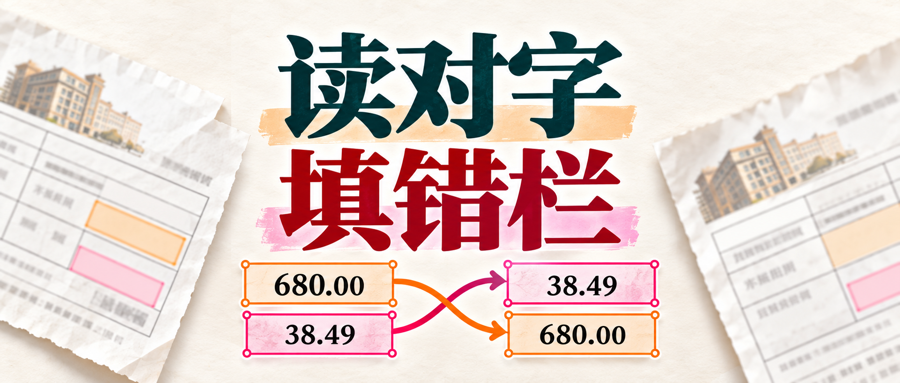
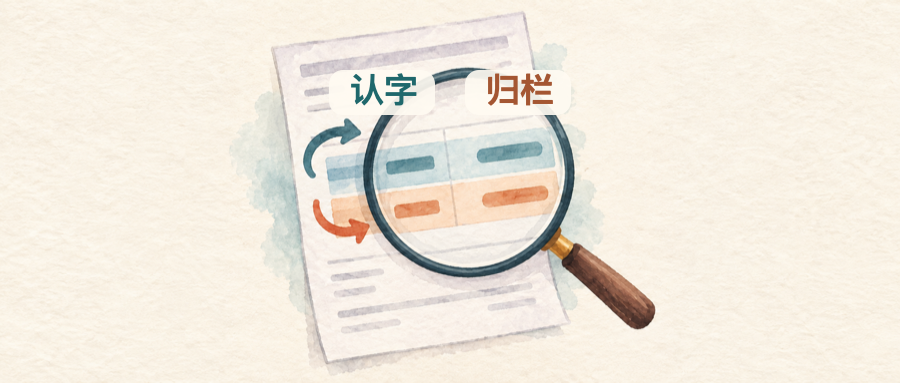
Refine multimodal WeChat covers and explanatory figures

diff --git a/scripts/render-multimodal-mobile-figures.py b/scripts/render-multimodal-mobile-figures.py
@@ -67,16 +67,57 @@ def save(im, name):
     im.save(ASSETS / name, optimize=True)
 
 
+def h_arrow(d, x1, y, x2, fill=ORANGE):
+    d.line((x1, y, x2-16, y), fill=fill, width=7)
+    d.polygon(((x2, y), (x2-24, y-14), (x2-24, y+14)), fill=fill)
+
+
+def box(d, xy, fill="white", outline=LINE, radius=18):
+    d.rounded_rectangle(xy, radius=radius, fill=fill, outline=outline, width=3)
+
+
+def invoice(d, x, y, w, h, readable=True):
+    box(d, (x, y, x+w, y+h), "#fffdf9", "#869895", 12)
+    d.line((x+18, y+66, x+w-18, y+66), fill=LINE, width=3)
+    text(d, x+24, y+17, "发票" if readable else "单据", 35, INK)
+    for i in range(3):
+        ry = y+98+i*68
+        d.line((x+24, ry+47, x+w-24, ry+47), fill=LINE, width=2)
+        if readable:
+            label, value = (("日期", "9/3"), ("含税金额", "680.00"), ("税额", "38.49"))[i]
+            text(d, x+27, ry, label, 33, MUTED)
+            text(d, x+w-222, ry, value, 35, INK)
+        else:
+            d.rounded_rectangle((x+26, ry+8, x+w-35, ry+28), radius=7, fill=LINE)
+
+
 def encoding():
     im, d = base("不同输入，先各自编码", "输入编码 · 主文")
-    for y, name, route, result, fill in (
-        (260, "发票照片", "视觉编码器", "图像特征", TEAL_BG),
-        (574, "语音录音", "音频编码器", "声音特征", PLUM_BG),
-        (888, "文字提问", "文本编码", "文字表示", ORANGE_BG),
-    ):
-        card(d, y, 235, name, (f"{route}  →  {result}",), fill)
-    arrow(d, 1134, 1192, "按任务对齐或融合")
-    ribbon(d, 1210, ("这张发票只使用图片和文字两路；", "并非每个模型都支持全部输入。"), TEAL_BG)
+    lanes = (
+        (275, "发票照片", "视觉编码器", "图像特征", TEAL_BG, TEAL),
+        (570, "语音录音", "音频编码器", "声音特征", PLUM_BG, PLUM),
+        (865, "文字提问", "文本编码", "文字表示", ORANGE_BG, ORANGE),
+    )
+    for y, source, encoder, feature, fill, accent in lanes:
+        box(d, (75, y, 270, y+200), "white")
+        box(d, (365, y+32, 645, y+164), fill, accent)
+        box(d, (735, y+32, 925, y+164), "white", accent)
+        if source == "发票照片":
+            d.rectangle((120, y+40, 225, y+130), outline=accent, width=4)
+            for i in range(3):
+                d.line((135, y+62+i*23, 207, y+62+i*23), fill=accent, width=4)
+        elif source == "语音录音":
+            for i, ht in enumerate((28, 55, 91, 48, 76, 32)):
+                xx = 115+i*23
+                d.line((xx, y+106-ht//2, xx, y+106+ht//2), fill=accent, width=6)
+        else:
+            text(d, 108, y+57, "金额？", 42, accent)
+        text(d, 103, y+157, source, 33, INK)
+        text(d, 402, y+73, encoder, 39)
+        text(d, 764, y+73, feature, 36)
+        h_arrow(d, 279, y+100, 354, accent)
+        h_arrow(d, 654, y+100, 725, accent)
+    ribbon(d, 1190, ("本例只用图片和文字两路；", "可用模态取决于具体模型。"), TEAL_BG)
     save(im, "multimodal-encoding.png")
 
 
@@ -109,69 +150,147 @@ def document():
     text(d, 140, 776, "税额             38.49", 45)
     text(d, 108, 899, "小字：需放大查看原文", 42, PLUM)
     text(d, 108, 981, "印章：另一区域，不能替代金额", 39, PLUM)
-    ribbon(d, 1210, ("只读出 680.00 和 38.49，", "还不能确定各自属于哪个字段。"))
+    ribbon(d, 1210, ("数值要连同旁边的标签核对；", "9/3 没有年份，不能补猜。"))
     save(im, "multimodal-document.png")
 
 
 def field_trace():
     im, d = base("每个字段都能指回原图", "字段溯源 · 主副文共用")
-    items = (
-        (258, "A · 含税金额", "原图标签 + 680.00", "草稿：含税金额 680.00", TEAL_BG),
-        (584, "B · 税额", "原图标签 + 38.49", "草稿：税额 38.49", PLUM_BG),
-        (910, "C · 开票日期", "原图只写 9/3", "草稿：9/3；年份未知", ORANGE_BG),
+    text(d, 90, 265, "原图区域", 37, TEAL)
+    text(d, 386, 265, "识别读数", 37, PLUM)
+    text(d, 690, 265, "草稿字段", 37, ORANGE)
+    rows = (
+        (333, "A", "含税金额", "680.00", "含税金额", "680.00", TEAL_BG),
+        (642, "B", "税额", "38.49", "税额", "38.49", PLUM_BG),
+        (951, "C", "日期", "9/3", "日期", "年份未知", ORANGE_BG),
     )
-    for y, heading, source, target, color in items:
-        card(d, y, 274, heading, (source, "↓", target), color)
-    ribbon(d, 1254, ("A / B / C 是示意区域，", "不是实测坐标；草稿仍需复核。"), TEAL_BG)
+    for y, region, source, value, target, status, fill in rows:
+        box(d, (75, y, 326, y+218), "white")
+        box(d, (378, y+27, 600, y+191), fill)
+        box(d, (660, y+5, 923, y+213), "white")
+        d.ellipse((95, y+20, 151, y+76), fill=ORANGE)
+        text(d, 123, y+48, region, 35, "white", "mm")
+        text(d, 106, y+107, source, 35)
+        text(d, 106, y+155, value, 39, TEAL)
+        text(d, 403, y+89, value, 42, PLUM)
+        text(d, 688, y+78, target, 35)
+        text(d, 688, y+135, status, 38, ORANGE if region == "C" else TEAL)
+        h_arrow(d, 332, y+109, 370)
+        h_arrow(d, 607, y+109, 650)
+    ribbon(d, 1281, ("A / B / C 仅为示意区域；", "每个草稿字段都要能回溯。"), TEAL_BG)
     save(im, "multimodal-field-trace.png")
 
 
 def validation():
     im, d = base("能读到，不等于能通过", "字段验证 · 主文")
-    card(d, 270, 397, "金额与税额", ("680.00 / 38.49 可以解析", "核对各自标签与原图区域", "→ 保留读数，等待复核"), TEAL_BG)
-    card(d, 720, 397, "开票日期", ("原图只有 9/3", "缺少年份，不能补成完整日期", "→ 保留 9/3；年份未知"), ORANGE_BG)
-    ribbon(d, 1196, ("能否报销，还要依据制度和记录；", "图片本身不能证明审批通过。"), PLUM_BG)
+    invoice(d, 275, 265, 450, 322)
+    text(d, 97, 635, "同一张原图，分两条校验路径", 41, MUTED)
+    d.line((500, 695, 500, 746), fill=ORANGE, width=7)
+    d.line((265, 745, 735, 745), fill=ORANGE, width=7)
+    d.line((265, 745, 265, 787), fill=ORANGE, width=7)
+    d.line((735, 745, 735, 787), fill=ORANGE, width=7)
+    box(d, (72, 800, 473, 1129), TEAL_BG, TEAL)
+    box(d, (527, 800, 928, 1129), ORANGE_BG, ORANGE)
+    text(d, 106, 846, "金额 / 税额", 42, TEAL)
+    text(d, 106, 920, "读数可解析", 37)
+    text(d, 106, 974, "标签与区域须复核", 37)
+    text(d, 561, 846, "日期 9/3", 42, ORANGE)
+    text(d, 561, 920, "年份缺失", 37)
+    text(d, 561, 974, "保持未知，不补猜", 37)
+    ribbon(d, 1211, ("图像读数不是报销结论；", "是否通过还要核对制度与记录。"), PLUM_BG)
     save(im, "multimodal-validation.png")
 
 
 def alignment():
     im, d = base("缩掉的小字，连接层救不回", "视觉连接 · 面试")
-    ribbon(d, 258, ("同一张发票：680.00、38.49", "以及旁边的字段标签。"), "white")
-    card(d, 428, 329, "路径 A：整页缩得过小", ("小字或小数点可能消失", "视觉编码器得到残缺特征", "连接层不能补回丢失像素"), ORANGE_BG)
-    card(d, 807, 329, "路径 B：金额栏局部放大", ("同时保留数字与字段标签", "视觉编码器取得更清晰特征", "接入语言模型后仍需复核"), TEAL_BG)
-    ribbon(d, 1208, ("连接层映射已有特征；", "原图信息损失须在输入端处理。"), PLUM_BG)
+    text(d, 100, 257, "A  整页缩小", 41, ORANGE)
+    text(d, 563, 257, "B  金额栏放大", 41, TEAL)
+    box(d, (70, 325, 456, 710), ORANGE_BG, ORANGE)
+    box(d, (544, 325, 930, 710), TEAL_BG, TEAL)
+    invoice(d, 138, 359, 250, 288, readable=False)
+    text(d, 124, 663, "标签、小数点可能丢失", 30, ORANGE)
+    box(d, (572, 396, 903, 626), "#fffdf9", TEAL)
+    text(d, 599, 425, "含税金额  680.00", 36)
+    d.line((593, 499, 883, 499), fill=LINE, width=3)
+    text(d, 599, 529, "税额      38.49", 36)
+    text(d, 594, 656, "标签和读数一起保留", 30, TEAL)
+    box(d, (90, 809, 431, 1000), "white")
+    box(d, (569, 809, 910, 1000), "white")
+    text(d, 118, 855, "视觉编码器", 38)
+    text(d, 118, 921, "输入已残缺", 36, ORANGE)
+    text(d, 599, 855, "视觉编码器", 38)
+    text(d, 599, 921, "可见两组字段", 36, TEAL)
+    arrow(d, 722, 798, x=260)
+    arrow(d, 722, 798, x=740)
+    d.line((260, 1007, 260, 1080), fill=ORANGE, width=6)
+    d.line((740, 1007, 740, 1080), fill=TEAL, width=6)
+    box(d, (185, 1090, 815, 1220), PLUM_BG, PLUM)
+    text(d, 256, 1132, "连接层只能映射已有特征", 41, PLUM)
+    ribbon(d, 1281, ("丢失的小字不能在连接层补回。",), "white")
     save(im, "multimodal-alignment.png")
 
 
 def ocr_vlm():
     im, d = base("认出字符 ≠ 填对字段", "OCR 与 VLM · 面试")
-    ribbon(d, 257, ("同一张发票：680.00、38.49、9/3" ,), "white")
-    card(d, 390, 242, "OCR（光学字符识别）", ("读出字符和文字框位置", "检查：数字是否读对？"), PLUM_BG)
-    card(d, 680, 242, "VLM（视觉语言模型）", ("给出字段关系候选", "检查：金额和税额是否填反？"), TEAL_BG)
-    arrow(d, 934, 991)
-    ribbon(d, 1010, ("合并证据，回到原图复核；", "两者一致也不能补出年份。"), ORANGE_BG)
+    invoice(d, 275, 260, 450, 322)
+    d.line((500, 590, 500, 650), fill=ORANGE, width=7)
+    d.line((265, 650, 735, 650), fill=ORANGE, width=7)
+    d.line((265, 650, 265, 700), fill=ORANGE, width=7)
+    d.line((735, 650, 735, 700), fill=ORANGE, width=7)
+    box(d, (70, 710, 470, 1092), PLUM_BG, PLUM)
+    box(d, (530, 710, 930, 1092), TEAL_BG, TEAL)
+    text(d, 98, 746, "OCR：读字与位置", 39, PLUM)
+    for i, value in enumerate(("9/3", "680.00", "38.49")):
+        y = 819+i*77
+        box(d, (108, y, 406, y+57), "white", PLUM, 8)
+        text(d, 136, y+6, value, 37)
+    text(d, 556, 746, "VLM：提出归属", 39, TEAL)
+    text(d, 557, 828, "含税金额 ← 680.00", 34)
+    text(d, 557, 905, "税额 ← 38.49", 34)
+    text(d, 557, 982, "日期 ← 9/3", 34)
+    ribbon(d, 1178, ("最终按原图标签、位置复核；", "两路一致也不能补出年份。"), ORANGE_BG)
     save(im, "multimodal-ocr-vlm.png")
 
 
 def diagnosis():
     im, d = base("错在看不清，还是配不对", "错误诊断 · 面试")
-    for y, title, lines, fill in (
-        (258, "缩图过度", ("小字或小数点丢失", "处理：放大原图金额栏"), PLUM_BG),
-        (609, "标签与数值拆开", ("680.00 失去“含税金额”标签", "处理：连同行列与坐标复核"), TEAL_BG),
-        (960, "日期缺项", ("9/3 没写年份", "处理：年份标未知，不补猜"), ORANGE_BG),
-    ):
-        card(d, y, 288, title, lines, fill)
+    rows = (
+        (273, "看不清", "680.0?", ("放大金额栏",), PLUM_BG, PLUM),
+        (635, "配不对", "金额错填税额", ("核对标签", "与行列"), TEAL_BG, TEAL),
+        (997, "原图缺项", "9/3  +  ?年", ("年份标未知",), ORANGE_BG, ORANGE),
+    )
+    text(d, 91, 238, "错误现象", 35, MUTED)
+    text(d, 636, 238, "定位后的动作", 35, MUTED)
+    for y, title, sample, actions, fill, accent in rows:
+        box(d, (70, y, 530, y+280), fill, accent)
+        box(d, (620, y+31, 930, y+249), "white", accent)
+        text(d, 102, y+39, title, 42, accent)
+        text(d, 102, y+131, sample, 47)
+        h_arrow(d, 544, y+140, 606, accent)
+        for i, action in enumerate(actions):
+            text(d, 652, y+98+i*51, action, 36)
     save(im, "multimodal-document-diagnosis.png")
 
 
 def evaluation():
     im, d = base("把三类错误分开评", "分层评测 · 面试")
-    for y, title, lines, fill in (
-        (258, "字符读错", ("看：金额字符准确率", "查：原图质量与识别区域"), PLUM_BG),
-        (609, "字段填反", ("看：字段归属与区域定位", "查：标签、行列与坐标"), TEAL_BG),
-        (960, "无据补年份", ("看：缺项保留是否正确", "查：9/3 是否仍为年份未知"), ORANGE_BG),
-    ):
-        card(d, y, 288, title, lines, fill)
+    box(d, (91, 258, 909, 379), "white")
+    text(d, 131, 286, "同一批样本，拆成三项统计", 42, INK)
+    d.line((126, 390, 126, 1100), fill=LINE, width=6)
+    rows = (
+        (454, "字符读错", "680.0?", "字符准确率", PLUM_BG, PLUM),
+        (728, "字段填反", "金额填入税额栏", "字段归属率", TEAL_BG, TEAL),
+        (1002, "无据补年", "9/3 被补成年份", "缺项保留率", ORANGE_BG, ORANGE),
+    )
+    for y, title, sample, metric, fill, accent in rows:
+        d.ellipse((105, y+80, 147, y+122), fill=accent)
+        box(d, (175, y, 570, y+215), fill, accent)
+        box(d, (683, y+32, 924, y+185), "white", accent)
+        text(d, 204, y+28, title, 40, accent)
+        text(d, 204, y+105, sample, 35)
+        h_arrow(d, 583, y+109, 672, accent)
+        text(d, 704, y+79, metric, 37, accent)
+    ribbon(d, 1280, ("还要分别核对原图区域与标签；", "不拿字符正确率代替字段正确率。"), "white")
     save(im, "multimodal-evaluation.png")
 
 

diff --git a/content/wechat/01-foundation-models-and-inference/submodules/02-multimodal/prompts.md b/content/wechat/01-foundation-models-and-inference/submodules/02-multimodal/prompts.md
@@ -1,14 +1,14 @@
 # 多模态模型子模块配图提示词
 
-版本：0.5.0；修订时间：2026-09-30 14:34 CST；依据提交：`efead2f`（`main`；本组配图修订中，另有无关的未跟踪文件）。阶段：按手机宽度重绘正文图，修正副文封面裁切、论文出处及图注。
+版本：0.6.0；修订时间：2026-10-08 17:40 CST；依据提交：`998be1d`（`main`；本组配图修订中，工作区非干净）。阶段：重绘主副封面，修复正文图的信息矛盾、表现单一与论文出处。
 
-本组正文配图统一为 1000×1450 纵向 PNG，在约 345px 的手机正文宽度下核对字段和关系；公众号封面图为 900×383 PNG。暖白背景，青绿、梅红、橙色点缀，中文清晰，无水印、无 Logo。副文封面使用内置图像生成工具；正文图由 `scripts/render-multimodal-mobile-figures.py` 确定性绘制，旧横图脚本不再覆盖这些资产。正文图不使用左侧通高装饰竖条、渐变、立体阴影或没有信息意义的图标。
+本组正文配图统一为 1000×1450 纵向 PNG，在约 345px 的手机正文宽度下核对字段和关系；公众号封面图为 900×383 PNG。暖白背景，青绿、梅红、橙色点缀，中文清晰，无水印、无 Logo。两张封面底图由内置图像生成工具生成，准确中文由 `scripts/compose-multimodal-covers.mjs` 确定性叠加；正文图由 `scripts/render-multimodal-mobile-figures.py` 确定性绘制。正文图不使用左侧通高装饰竖条、渐变、立体阴影或没有信息意义的图标；同组图片分别承担输入路径、原理、版面、字段溯源、校验、诊断或评测任务，不再把每张都画成三块文字卡。
 
-1. `multimodal-cover-main-wechat.png`：主文封面图。标题“大话多模态模型”“一张发票为什么会读错”；反光发票、放大区域和字段卡片共同表达“读字不等于填对字段”。案例字段固定为日期“9/3（年份缺失）”、含税金额“680.00”和税额“38.49”，不得生成其他日期或金额。
-2. `multimodal-cover-interview-wechat.png`：面试副文封面图。右侧小缩略图优先，中心正方形安全区只保留大字“读对字”“填错栏”和 `680.00`、`38.49` 交叉映射；完整题目留给草稿卡片标题，不塞入图内。图像生成编辑要求：沿用暖白纸张与发票场景，去掉中心外的长标题，把上述两行中文放在安全区，数字与交叉箭头置于标题下方；保持准确中文、无水印、无装饰竖条。生成后按 900×383 保存，再用居中方形裁切至 240×240 和 120×120 复核。
+1. `multimodal-cover-main-wechat.png`：主文封面。无字水彩底图 `multimodal-cover-main-art.png` 只表现一张发票与金额栏局部放大，两条线连接原图区域和放大区域；题字“多模态模型”“发票读数为何填错栏”排在左上。底部 15%（约 58 px）只放可被微信标题遮挡的纸纹，不放关键对象或文字。封面不复用正文，不假装能直接读出案例的具体数字。
+2. `multimodal-cover-interview-wechat.png`：面试副文封面。无字水彩底图 `multimodal-cover-interview-art.png` 的中央是单张发票、两条金额栏与放大镜；确定性叠加“认字”“归栏”两个短标签。完整题目只保留在草稿卡片标题，不在缩略图重复。核心物件与标签均处于中央正方形安全区，按 900×383 原图和约 128×128 居中裁切复核。
 3. `multimodal-encoding.png`（确定性绘制）：图片、声音、文字分别经视觉、音频、文本编码器得到各自特征，再按任务对齐或融合；具体模型可能只支持部分模态，不能暗示原始输入共用一个编码器。主文使用，不为面试选型题重复此图。
-4. `multimodal-alignment.png`（确定性绘制）：面试原理对照图。同一张发票分别“整页缩小”和“金额栏局部放大”后交给视觉编码器；连接层只能映射已有视觉特征，不能补回已经丢失的小字与小数点。不暗示所有模型使用同一连接结构。连接机制依据 [LLaVA 原论文第 4.1 节](https://arxiv.org/html/2304.08485#S4.SS1)；两种缩放路径是发票案例的工程示意，不是该论文的实测结论。图注须说明这一区别。
-5. `multimodal-document.png`（确定性绘制）：主文版面图。在同一张示意发票上标出“版面”“表格”“小字”“印章”四类观察区域，并呈现 `680.00`、`38.49`、`9/3` 与对应标签；不使用随机假文字或装饰放大镜。
+4. `multimodal-alignment.png`（确定性绘制）：面试原理对照图。左边画缩小后看不清标签的整页，右边画连同字段名一起放大的金额栏，再分别经过视觉编码器汇入“连接层只能映射已有特征”的判断。连接机制对照 [LLaVA 原论文第 4.1 节](https://arxiv.org/html/2304.08485#S4.SS1)；整页与局部裁块、裁块位置信息对照 [UReader 第 3.1—3.2 节](https://arxiv.org/html/2310.05126)。两条发票路径是教学示意，不是任一论文的实测图或通用架构；图注必须说清这一点。
+5. `multimodal-document.png`（确定性绘制）：主文版面图。在同一张示意发票上标出“版面”“表格”“小字”“印章”四类观察区域，并呈现 `680.00`、`38.49`、`9/3` 与对应标签；图中既然已给出标签，就不能再声称“仍无法确定两个数各属于哪个字段”。结论改为“数值须连同旁边标签核对；年份不能补猜”。
 6. `multimodal-validation.png`（确定性绘制）：主文字段校验图。两条路径对照金额与税额可解析、但仍需回原图复核，和日期 `9/3` 缺少年份、只能保留原样与未知状态；不得把图片读数等同于报销批准。
 7. `multimodal-field-trace.png`（确定性绘制）：主副文共用的字段溯源图。三个纵向路径分别连接发票示意区域 A/B/C、识别读数 `680.00` / `38.49` / `9/3` 与对应草稿字段；A/B/C 仅是图中示意标记，不是假造的测量坐标。箭头从来源到草稿，日期的“年份未知”不能消失。
 8. `multimodal-principle.png`（确定性绘制）：原理图。依据 [Visual Instruction Tuning / LLaVA 第 4.1 节](https://arxiv.org/html/2304.08485#S4.SS1)改绘。保留“图像 → 视觉编码器 → 可训练投影层 → 语言模型”，文字指令另一路进入语言模型；省略训练目标与完整参数细节。图注：“依据 Liu 等，LLaVA 第 4.1 节改绘。”

diff --git a/content/wechat/01-foundation-models-and-inference/submodules/02-multimodal/interview-side.md b/content/wechat/01-foundation-models-and-inference/submodules/02-multimodal/interview-side.md
@@ -12,10 +12,10 @@ topic: "foundation"
 content_level: "submodule"
 submodule: "multimodal"
 series_order: 2
-version: "0.3.0"
-stage: "重选多模态机制、选型、定位和评测题，减少与主文重合"
-git_state: "基于 6d57e8f（main；修改前工作区干净）"
-modified_at: "2026-10-08 09:50 CST"
+version: "0.3.1"
+stage: "修订副文封面和诊断、评测图，厘清 LLaVA 与 UReader 的出处"
+git_state: "基于 998be1d（main；修改前工作区干净）"
+modified_at: "2026-10-08 17:40 CST"
 ---
 
 # 面试题：发票读对字为何还会填错字段
@@ -32,7 +32,7 @@ UReader 的做法提供一个可讨论的解法：保留缩小的整页视图，
 
 ![视觉特征与语言模型的连接](./assets/multimodal-alignment.png)
 
-*整页缩小与局部放大是本例示意；整页加裁块、记录裁块位置的机制可对照 [UReader 论文第 3.1—3.2 节](https://arxiv.org/html/2310.05126)。图中不表示像素增加后一定识别正确。*
+*整页缩小与局部放大是本例示意，不是论文实测图。视觉特征接入语言模型可对照 [LLaVA 第 4.1 节](https://arxiv.org/html/2304.08485#S4.SS1)；整页加裁块、记录裁块位置可对照 [UReader 第 3.1—3.2 节](https://arxiv.org/html/2310.05126)。局部放大也不保证一定识别正确。*
 
 ### 答题点
 

diff --git a/content/wechat/01-foundation-models-and-inference/submodules/02-multimodal/beginner-main.md b/content/wechat/01-foundation-models-and-inference/submodules/02-multimodal/beginner-main.md
@@ -12,10 +12,10 @@ topic: "foundation"
 content_level: "submodule"
 submodule: "multimodal"
 series_order: 2
-version: "0.4.0"
-stage: "补足视觉编码、图文连接和字段定位机制，合并重复结论"
-git_state: "基于 6d57e8f（main；修改前工作区干净）"
-modified_at: "2026-10-08 09:50 CST"
+version: "0.4.1"
+stage: "修订主文封面与正文图，补清发票标签和读数的关系"
+git_state: "基于 998be1d（main；修改前工作区干净）"
+modified_at: "2026-10-08 17:40 CST"
 ---
 
 # 大话多模态模型：一张发票为什么会读错
